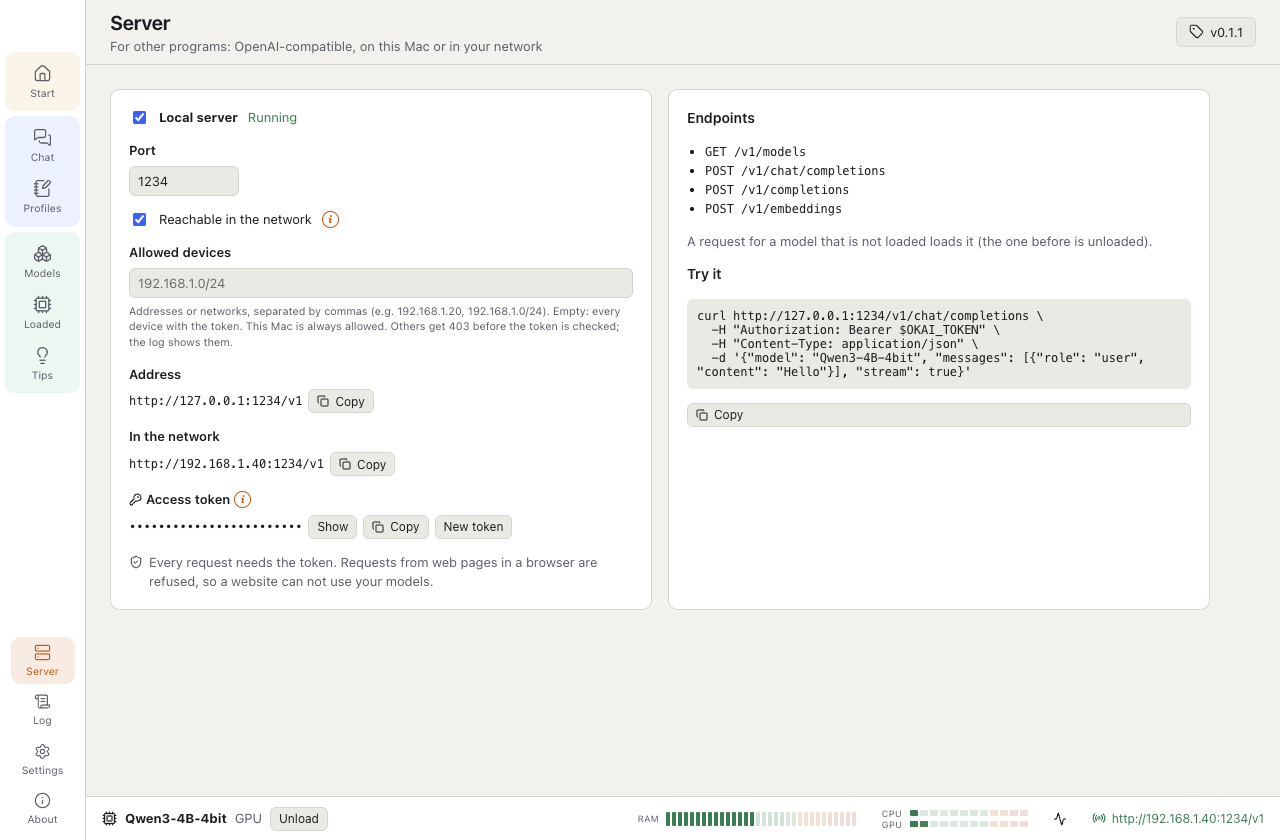
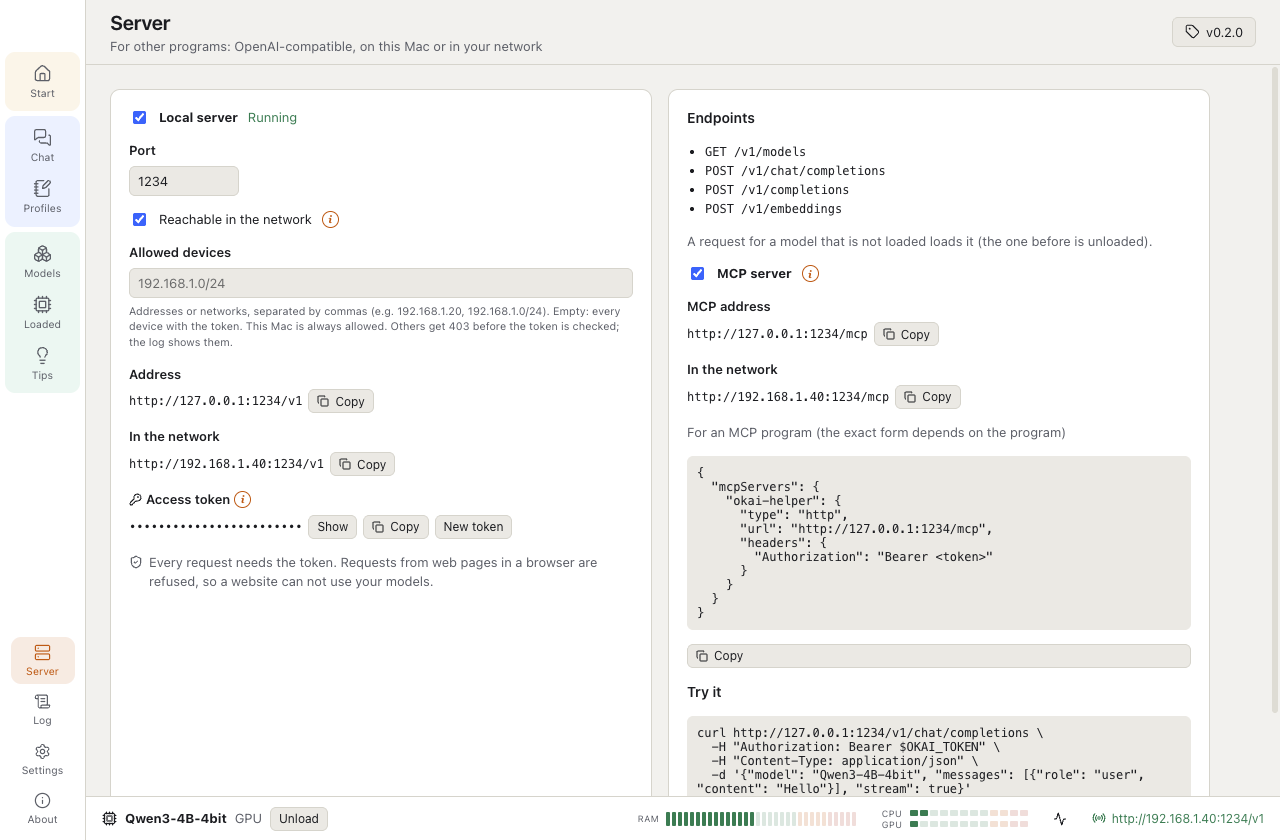
0.2.0: MCP-Anleitung (docs/MCP.md, de), README mit MCP, CHANGELOG, Server-Bild

diff --git a/docs/MCP.de.md b/docs/MCP.de.md
@@ -1,0 +1,152 @@
+# okAI-helper über MCP nutzen
+
+[English](MCP.md) · [Deutsch](MCP.de.md)
+
+MCP (das [Model Context Protocol](https://modelcontextprotocol.io)) lässt Assistenz- und Agentenprogramme Werkzeuge
+benutzen. Mit eingeschaltetem MCP-Server nutzt so ein Programm die Sprachmodelle auf deinem Mac als Werkzeuge: Es listet
+sie auf, stellt einem eine Frage oder macht aus Texten Vektoren. Alles bleibt auf deinem Mac oder in deinem eigenen Netz.
+
+okAI-helper spricht beide MCP-Generationen unter derselben Adresse: **2025-11-25** (mit Handshake, das nutzen heute die
+meisten Programme) und **2026-07-28** (zustandslos, die aktuelle Fassung).
+
+## In fünf Schritten einrichten
+
+1. **Server.** In okAI-helper **Server** öffnen und **Lokaler Server** einschalten. Der Port steht dort (1235 als
+   Grundeinstellung). Für andere Geräte **Im Netzwerk erreichbar** einschalten und bei Bedarf die **Erlaubten Geräte**
+   eintragen.
+2. **MCP.** Auf derselben Seite **MCP-Server** einschalten (als Grundeinstellung aus). Die Seite zeigt dann die
+   MCP-Adresse und ein fertiges Beispiel.
+3. **Token.** Das **Zugangstoken** kopieren (Zeigen, Kopieren). Jede Anfrage braucht es; behandle es wie ein Passwort.
+   **Neues Token** sperrt jedes Programm aus, das noch das alte benutzt.
+4. **Dein Programm.** Einen MCP-Server vom Typ **HTTP** (auch *Streamable HTTP*) anlegen:
+   - auf diesem Mac: `http://127.0.0.1:1235/mcp`
+   - von einem anderen Gerät: `http://<Adresse des Macs>:1235/mcp` (die Server-Seite zeigt sie unter *Im Netzwerk*)
+   - Kopfzeile: `Authorization: Bearer <Token>`
+
+   Die genaue Form hängt vom Programm ab, siehe unten.
+5. **Prüfen** mit dem offiziellen MCP Inspector (braucht Node.js 22.23.4, 24.22.1, 26.12.1 oder neuer):
+
+   ```bash
+   npx @modelcontextprotocol/inspector --cli http://127.0.0.1:1235/mcp --transport http \
+     --header "Authorization: Bearer <Token>" --method tools/list
+   ```
+
+   Er sollte `list_models`, `ask_model` und `embed` auflisten. `--protocol-era modern` prüft die Generation 2026-07-28.
+
+## Was ein Programm bekommt
+
+| Werkzeug | Was es tut | Felder |
+| --- | --- | --- |
+| `list_models` | die Modelle der Bibliothek: ID, Art (Chat oder Embedding), Format, Größe, ob geladen, und die passenden Prompt-Profile | keine |
+| `ask_model` | fragt ein Chat-Modell und gibt seine Antwort als Text zurück; ein nicht geladenes Modell wird zuerst geladen | `prompt` (Pflicht), `model` (eine ID aus `list_models`; ohne antwortet das geladene Modell), `profile` (braucht `model`), `system`, `max_tokens` |
+| `embed` | macht aus Texten Vektoren mit einem Embedding-Modell | `model` (Pflicht), `input` (eine Liste von Texten) |
+
+Die **Prompt-Profile** der App gibt es auch als MCP-*Prompts*: Ein Programm kann eins auswählen und bekommt dessen
+Systemprompt (als erste Nachricht) und dessen Beispiele.
+
+Jedes Werkzeug läuft über den eigenen Server der App: Laden bei Bedarf, Profile, die Sampling-Werte des Modells, der
+Wächter-Monitor und das **Server-Log** gelten wie für jedes andere Programm. Jede Frage erscheint im Log zweimal: als
+`/mcp` vom Gerät des Programms und als `/v1/…` von 127.0.0.1 (das Werkzeug selbst).
+
+## Programme
+
+Von uns getestet: **MCP Inspector** und **Claude Code**. Die anderen folgen der Dokumentation ihrer Hersteller
+(verlinkt) und sind hier nicht getestet; ihre Formate ändern sich ab und zu.
+
+### Claude Code
+
+```bash
+claude mcp add --transport http okai http://127.0.0.1:1235/mcp \
+  --header "Authorization: Bearer <Token>"
+```
+
+`--scope user` macht ihn in allen Projekten verfügbar, `--scope project` schreibt eine `.mcp.json` für das Projekt. In
+einer `.mcp.json` kann das Token aus einer Umgebungsvariable kommen statt in der Datei zu stehen:
+
+```json
+{ "mcpServers": { "okai": { "type": "http", "url": "http://127.0.0.1:1235/mcp",
+  "headers": { "Authorization": "Bearer ${OKAI_TOKEN}" } } } }
+```
+
+`"type": "http"` ist Pflicht. Quelle: [Claude Code, MCP](https://code.claude.com/docs/en/mcp).
+
+### VS Code (GitHub Copilot)
+
+Die aktuelle Form ist eine `~/.copilot/mcp-config.json` (für alle Projekte) oder eine `.mcp.json` im Workspace:
+
+```json
+{ "mcpServers": { "okai": { "type": "http", "url": "http://127.0.0.1:1235/mcp",
+  "headers": { "Authorization": "Bearer ${OKAI_TOKEN}" }, "tools": ["*"] } } }
+```
+
+Die ältere `.vscode/mcp.json` (mit `servers` und `inputs`) ist abgekündigt und fällt laut Dokumentation im Februar 2027
+weg. Quelle: [VS Code, MCP-Konfiguration](https://code.visualstudio.com/docs/agents/reference/mcp-configuration).
+
+### Cursor
+
+`~/.cursor/mcp.json` (alle Projekte) oder `.cursor/mcp.json` (ein Projekt):
+
+```json
+{ "mcpServers": { "okai": { "url": "http://127.0.0.1:1235/mcp",
+  "headers": { "Authorization": "Bearer ${env:OKAI_TOKEN}" } } } }
+```
+
+Quelle: [Cursor, MCP](https://cursor.com/docs/context/mcp).
+
+### Continue
+
+Eine Datei in `.continue/mcpServers/` des Workspace, z. B. `okai.yaml`:
+
+```yaml
+name: okAI-helper
+version: 0.0.1
+schema: v1
+mcpServers:
+  - name: okAI-helper
+    type: streamable-http
+    url: http://127.0.0.1:1235/mcp
+    requestOptions:
+      headers:
+        Authorization: "Bearer <Token>"
+```
+
+Quelle: [Continue, MCP](https://docs.continue.dev/customize/deep-dives/mcp).
+
+### LM Studio (0.3.17 oder neuer)
+
+Reiter Program → Install → `mcp.json` bearbeiten:
+
+```json
+{ "mcpServers": { "okai": { "url": "http://127.0.0.1:1235/mcp",
+  "headers": { "Authorization": "Bearer <Token>" } } } }
+```
+
+Quelle: [LM Studio, MCP](https://lmstudio.ai/docs/app/mcp).
+
+### Open WebUI (0.6.31 oder neuer)
+
+Als Admin: Settings → Integrations → External Tool Servers → **+ Add Connection**, Typ **MCP (Streamable HTTP)**, die
+Adresse, Auth **Bearer** und das Token als *Key*. Open WebUI verbindet sich von seinem Server aus: In Docker lautet die
+Adresse `http://host.docker.internal:1235/mcp`. Quelle: [Open WebUI, MCP](https://docs.openwebui.com/features/extensibility/mcp).
+
+### Claude Desktop
+
+Die *eigenen Konnektoren* von Claude Desktop werden aus Anthropics Cloud erreicht: Sie brauchen eine Adresse im
+öffentlichen Internet über HTTPS und erreichen deshalb keinen Server auf deinem Mac oder in deinem Netz. Für einen
+lokalen HTTP-Server gibt es die Brücke [mcp-remote](https://github.com/geelen/mcp-remote) eines Drittanbieters (nicht
+von Anthropic, hier nicht getestet). Quellen:
+[eigene Konnektoren](https://support.claude.com/en/articles/11175166-getting-started-with-custom-connectors-using-remote-mcp),
+[lokale MCP-Server](https://support.claude.com/en/articles/10949351-getting-started-with-local-mcp-servers-on-claude-desktop).
+
+## Wenn etwas nicht klappt
+
+| Antwort | Warum | Was tun |
+| --- | --- | --- |
+| 401 | Token fehlt oder ist falsch | Token neu kopieren; nach **Neues Token** braucht jedes Programm das neue |
+| 403 | das Gerät steht nicht unter **Erlaubte Geräte**, oder die Anfrage kam von einer Webseite im Browser | Adresse oder Netz des Geräts eintragen; Browser werden immer abgewiesen |
+| 404 | **MCP-Server** ist aus, oder die Adresse endet nicht auf `/mcp` | unter Server einschalten; Adresse prüfen |
+| keine Verbindung | Server aus, anderer Port, oder **Im Netzwerk erreichbar** ist für ein anderes Gerät aus | Server-Seite prüfen; eine Firewall auf dem Mac kann den Port sperren |
+| die erste Antwort dauert | das Modell wird zuerst geladen | `list_models` zeigt, welche Modelle geladen sind |
+| `a profile needs a model` | `profile` ohne `model` | beides angeben |
+
+Im Netz spricht der Server einfaches HTTP: nur im eigenen Netz verwenden (oder über ein VPN).

diff --git a/docs/MCP.md b/docs/MCP.md
@@ -1,0 +1,150 @@
+# Using okAI-helper over MCP
+
+[English](MCP.md) · [Deutsch](MCP.de.md)
+
+MCP (the [Model Context Protocol](https://modelcontextprotocol.io)) lets assistant and agent programs use tools. With the
+MCP server switched on, such a program uses the language models on your Mac as tools: it lists them, asks one a
+question, or turns texts into vectors. Everything stays on your Mac or in your own network.
+
+okAI-helper speaks both MCP generations on the same address: **2025-11-25** (with its handshake, what most programs use
+today) and **2026-07-28** (stateless, the current revision).
+
+## Set it up in five steps
+
+1. **Server.** Open **Server** in okAI-helper and switch on **Local server**. The port is shown there (1235 by default).
+   For other devices, switch on **Reachable in the network** and, if you like, name the **Allowed devices**.
+2. **MCP.** On the same page switch on **MCP server** (off by default). The page now shows the MCP address and a ready
+   example.
+3. **Token.** Copy the **Access token** (Show, Copy). Every request needs it; keep it like a password.
+   **New token** locks out every program that still uses the old one.
+4. **Your program.** Add an MCP server of type **HTTP** (also called *streamable HTTP*):
+   - on this Mac: `http://127.0.0.1:1235/mcp`
+   - from another device: `http://<address of the Mac>:1235/mcp` (the Server page lists it under *In the network*)
+   - header: `Authorization: Bearer <token>`
+
+   The exact form depends on the program, see below.
+5. **Check it** with the official MCP Inspector (needs Node.js 22.23.4, 24.22.1, 26.12.1 or newer):
+
+   ```bash
+   npx @modelcontextprotocol/inspector --cli http://127.0.0.1:1235/mcp --transport http \
+     --header "Authorization: Bearer <token>" --method tools/list
+   ```
+
+   It should list `list_models`, `ask_model` and `embed`. `--protocol-era modern` checks the 2026-07-28 generation.
+
+## What a program gets
+
+| Tool | What it does | Fields |
+| --- | --- | --- |
+| `list_models` | the models of the library: id, kind (chat or embedding), format, size, whether loaded, and the prompt profiles that fit | none |
+| `ask_model` | asks a chat model and returns its answer as text; a model that is not loaded is loaded first | `prompt` (required), `model` (an id from `list_models`; without it the loaded model answers), `profile` (needs `model`), `system`, `max_tokens` |
+| `embed` | turns texts into vectors with an embedding model | `model` (required), `input` (a list of texts) |
+
+The **prompt profiles** of the app come as MCP *prompts* too: a program can pick one and gets its system prompt (as
+the first message) and its examples.
+
+Every tool goes through the app's own server: loading on demand, the profiles, the model's sampling values, the guard
+monitor and the **server log** apply as for any other program. Each question shows up in the log twice: as `/mcp` from
+the program's device and as `/v1/…` from 127.0.0.1 (the tool itself).
+
+## Programs
+
+Tested by us: **MCP Inspector** and **Claude Code**. The others follow their makers' documentation (linked) and were
+not tested here; their forms change now and then.
+
+### Claude Code
+
+```bash
+claude mcp add --transport http okai http://127.0.0.1:1235/mcp \
+  --header "Authorization: Bearer <token>"
+```
+
+`--scope user` makes it available in every project, `--scope project` writes a `.mcp.json` for the project. In a
+`.mcp.json` the token can come from an environment variable instead of the file:
+
+```json
+{ "mcpServers": { "okai": { "type": "http", "url": "http://127.0.0.1:1235/mcp",
+  "headers": { "Authorization": "Bearer ${OKAI_TOKEN}" } } } }
+```
+
+`"type": "http"` is required. Source: [Claude Code, MCP](https://code.claude.com/docs/en/mcp).
+
+### VS Code (GitHub Copilot)
+
+The current form is a `~/.copilot/mcp-config.json` (for all projects) or a `.mcp.json` in the workspace:
+
+```json
+{ "mcpServers": { "okai": { "type": "http", "url": "http://127.0.0.1:1235/mcp",
+  "headers": { "Authorization": "Bearer ${OKAI_TOKEN}" }, "tools": ["*"] } } }
+```
+
+The older `.vscode/mcp.json` (with `servers` and `inputs`) is deprecated and, according to the documentation, goes away
+in February 2027. Source: [VS Code, MCP configuration](https://code.visualstudio.com/docs/agents/reference/mcp-configuration).
+
+### Cursor
+
+`~/.cursor/mcp.json` (all projects) or `.cursor/mcp.json` (one project):
+
+```json
+{ "mcpServers": { "okai": { "url": "http://127.0.0.1:1235/mcp",
+  "headers": { "Authorization": "Bearer ${env:OKAI_TOKEN}" } } } }
+```
+
+Source: [Cursor, MCP](https://cursor.com/docs/context/mcp).
+
+### Continue
+
+A file in `.continue/mcpServers/` of the workspace, e.g. `okai.yaml`:
+
+```yaml
+name: okAI-helper
+version: 0.0.1
+schema: v1
+mcpServers:
+  - name: okAI-helper
+    type: streamable-http
+    url: http://127.0.0.1:1235/mcp
+    requestOptions:
+      headers:
+        Authorization: "Bearer <token>"
+```
+
+Source: [Continue, MCP](https://docs.continue.dev/customize/deep-dives/mcp).
+
+### LM Studio (0.3.17 or newer)
+
+Program tab → Install → Edit `mcp.json`:
+
+```json
+{ "mcpServers": { "okai": { "url": "http://127.0.0.1:1235/mcp",
+  "headers": { "Authorization": "Bearer <token>" } } } }
+```
+
+Source: [LM Studio, MCP](https://lmstudio.ai/docs/app/mcp).
+
+### Open WebUI (0.6.31 or newer)
+
+As admin: Settings → Integrations → External Tool Servers → **+ Add Connection**, type **MCP (Streamable HTTP)**, the
+address, Auth **Bearer** and the token as *Key*. Open WebUI connects from its server: in Docker the address is
+`http://host.docker.internal:1235/mcp`. Source: [Open WebUI, MCP](https://docs.openwebui.com/features/extensibility/mcp).
+
+### Claude Desktop
+
+Claude Desktop's *custom connectors* are reached from Anthropic's cloud: they need an address on the public internet
+over HTTPS, so they can not reach a server on your Mac or in your network. For a local HTTP server there is the
+third-party bridge [mcp-remote](https://github.com/geelen/mcp-remote) (not by Anthropic, not tested here). Sources:
+[custom connectors](https://support.claude.com/en/articles/11175166-getting-started-with-custom-connectors-using-remote-mcp),
+[local MCP servers](https://support.claude.com/en/articles/10949351-getting-started-with-local-mcp-servers-on-claude-desktop).
+
+## When something does not work
+
+| Answer | Why | What to do |
+| --- | --- | --- |
+| 401 | missing or wrong token | copy the token again; after **New token** every program needs the new one |
+| 403 | the device is not in **Allowed devices**, or the request came from a web page in a browser | add the device's address or network; browsers are always refused |
+| 404 | **MCP server** is off, or the address does not end in `/mcp` | switch it on under Server; check the address |
+| no connection | the server is off, the port differs, or **Reachable in the network** is off for another device | check the Server page; a firewall on the Mac may block the port |
+| the first answer takes long | the model is loaded first | `list_models` shows which models are loaded |
+| `a profile needs a model` | `profile` without `model` | give both |
+
+Over the network the server speaks plain HTTP: use it in your own network only (or over a VPN).

diff --git a/README.md b/README.md
@@ -5,7 +5,7 @@
 # okAI-helper
 
 **Language models on your Mac, private and local**<br>
-Chat · Prompt profiles · Speech input · OpenAI-compatible server · Models bigger than memory · Models without network · Guard monitor
+Chat · Prompt profiles · Speech input · OpenAI-compatible server · MCP server · Models bigger than memory · Models without network · Guard monitor
 
 [![Release](https://img.shields.io/github/v/release/revil-O/okAI-helper-releases?label=release&color=c2662d)](https://github.com/revil-O/okAI-helper-releases/releases/latest)
 ![macOS](https://img.shields.io/badge/macOS-Apple%20silicon-111?logo=apple&logoColor=white)
@@ -74,7 +74,8 @@ that holds more memory than planned.
 
 ### <img src="docs/icons/messages-square.svg" width="20" height="20" alt=""> For your other tools
 An OpenAI-compatible server (`/v1/chat/completions`, `/v1/embeddings`, `/v1/audio/transcriptions` …) behind a token,
-on this Mac or in your network, limited to the devices you allow. A request loads the model it names.
+on this Mac or in your network, limited to the devices you allow. A request loads the model it names. Programs that
+speak MCP use the models as tools at `/mcp` (both MCP generations, 2025-11-25 and 2026-07-28).
 
 </td>
 <td valign="top">
@@ -143,7 +144,7 @@ app menu or the menu bar icon).
 </table>
 
 ### Server and log
-The server's address, the token, the allowed devices and the endpoints; the log of the last 100 requests with the
+The server's address, the token, the allowed devices, the endpoints and the MCP switch with a ready example; the log of the last 100 requests with the
 client, the model, the status, the key that came and the tokens.
 
 <table>
@@ -285,6 +286,23 @@ curl http://127.0.0.1:1235/v1/chat/completions \
 ```
 
 Model ids are listed by `GET /v1/models` and shown on the Models page.
+
+### MCP
+
+Turn on **MCP server** on the same page (off by default). MCP programs then reach the models at `/mcp`, with the same
+token and the same allowed devices:
+
+```json
+{ "mcpServers": { "okai-helper": { "type": "http", "url": "http://127.0.0.1:1235/mcp",
+  "headers": { "Authorization": "Bearer <token>" } } } }
+```
+
+Tools: `list_models`, `ask_model` (a question to a model, optionally with a prompt profile) and `embed`; the prompt
+profiles also come as MCP prompts. Check it with the official MCP Inspector:
+`npx @modelcontextprotocol/inspector --cli http://127.0.0.1:1235/mcp --transport http --header "Authorization: Bearer <token>" --method tools/list`.
+
+Step by step, with examples for Claude Code, VS Code, Cursor, Continue, LM Studio and Open WebUI and help when
+something does not work: [docs/MCP.md](docs/MCP.md) ([Deutsch](docs/MCP.de.md)).
 
 ## Licence
 

diff --git a/CHANGELOG.md b/CHANGELOG.md
@@ -1,5 +1,15 @@
 # Changelog
 
+## 0.2.0 (2026-11-22)
+
+- MCP server (Server page, off by default): programs that speak MCP use the local models at /mcp of the app's server,
+  with the same token and the same allowed devices. Tools: list_models, ask_model and embed; the prompt profiles come as
+  MCP prompts. Speaks both MCP generations on one address, 2025-11-25 and 2026-07-28 (official TypeScript SDK 2.4.0).
+  Checked with the MCP Inspector in both generations and with a real MCP program; a device that is not allowed gets 403.
+  Tips: a new entry "MCP server" and a step-by-step guide "MCP step by step" in five languages: the five steps with
+  the port that is set, examples for MCP Inspector, Claude Code, VS Code, Cursor, Continue, LM Studio, Open WebUI and
+  Claude Desktop, and what 401, 403, 404 and other answers mean. The full guide is in docs/MCP.md.
+
 ## 0.1.2 (2026-11-21)
 
 - Downloads and the update check try a failed connection again, twice, after 2 and 5 seconds (GitHub refused
